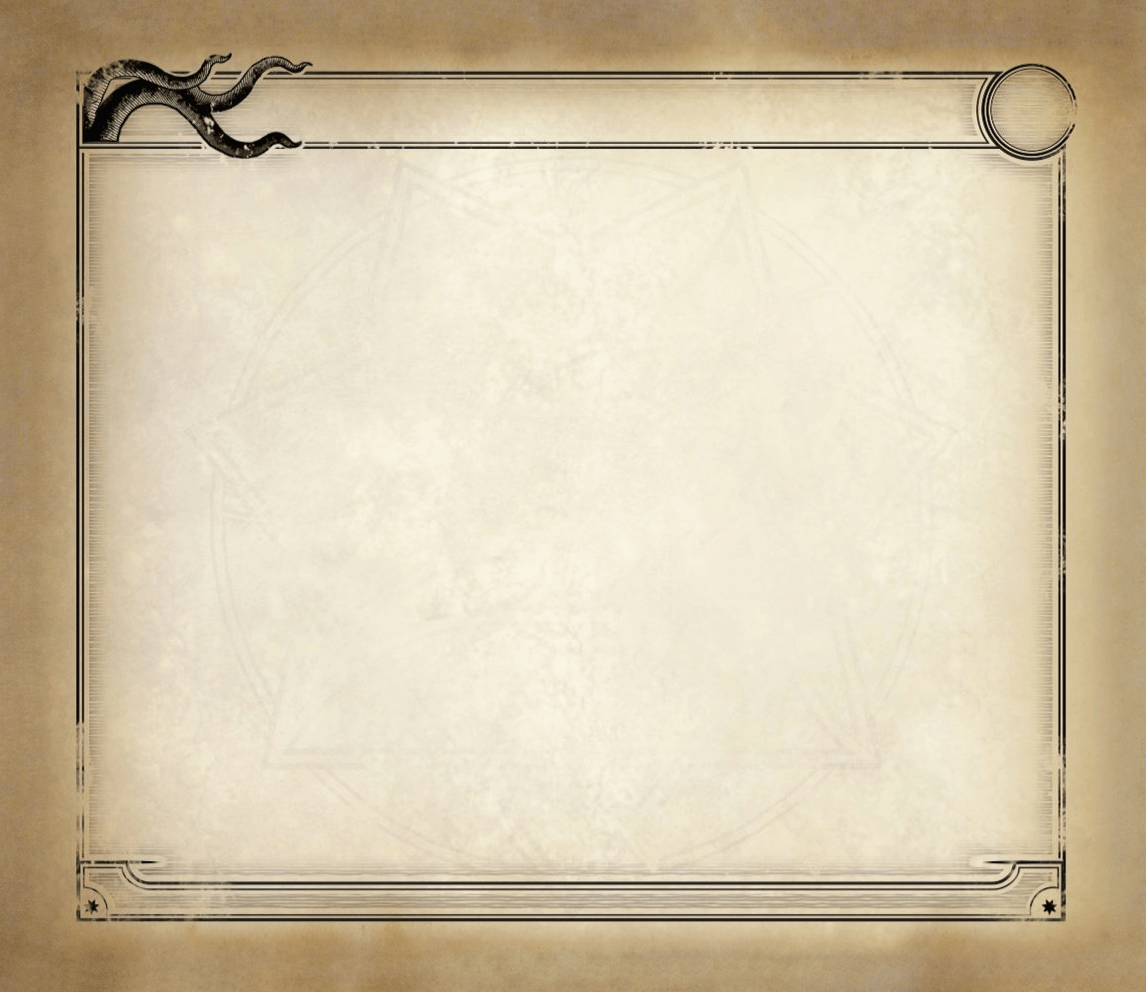
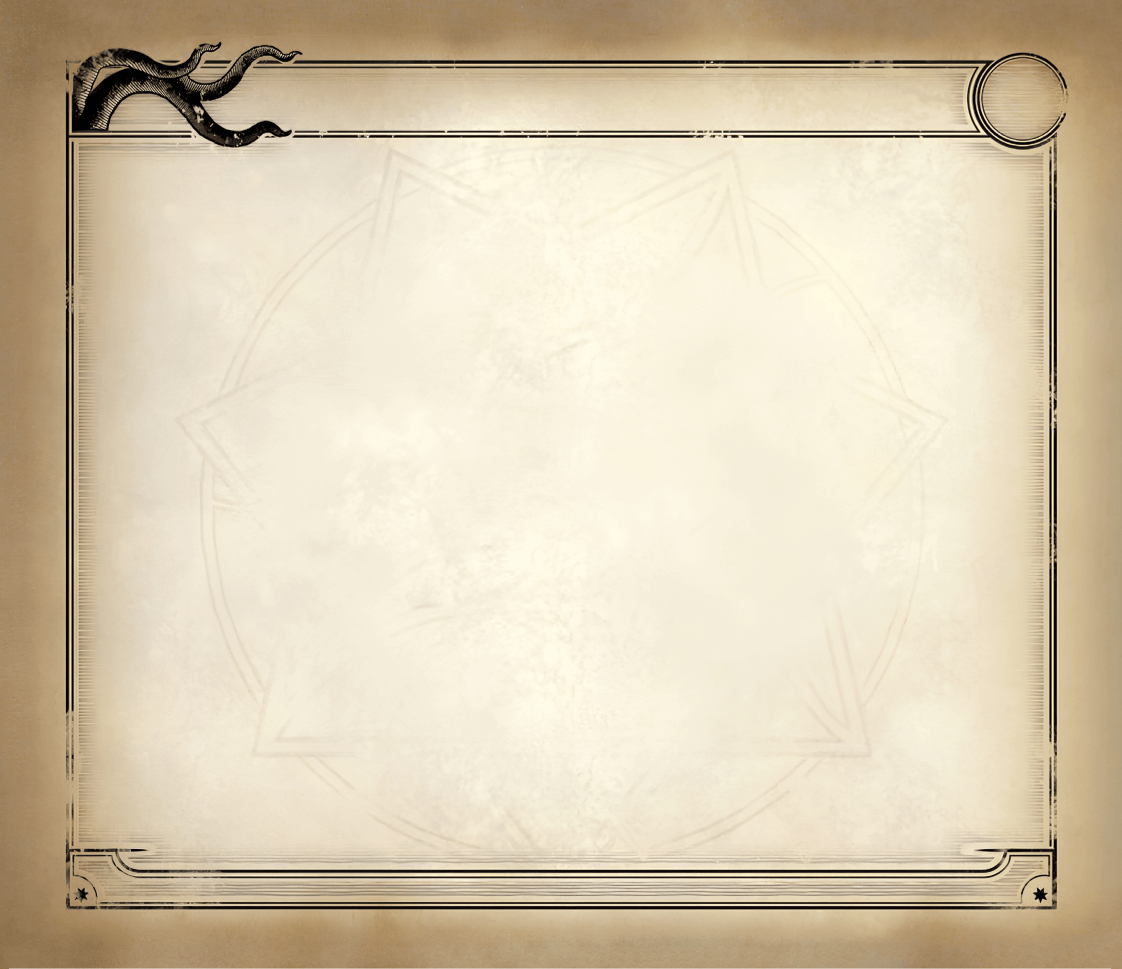
feat: hq loayout

Changed region(s): [[0.0312, 0.031, 0.967, 0.9598], [0.0312, 0.9907, 0.967, 1.0]]

diff --git a/src/components/dividers/classic/ClassicDivider/styles/horizontal.module.scss b/src/components/dividers/classic/ClassicDivider/styles/horizontal.module.scss
@@ -1,3 +1,5 @@
+@use "@/app/sass/mixins.scss" as mixins;
+
 .horizontal {
 
   .title {
@@ -45,6 +47,13 @@
 
 .classic-horizontal-hq {
   .icon_small {
-    right: 5.5mm;
+    top: 4.4mm;
+    right: 4.2mm;
+  }
+  .title {
+    top: 5.2mm;
+  }
+  .textStroke {
+    @include mixins.textStroke(rgba(208, 192, 165, 0.7));
   }
 }

diff --git a/src/shared/data/layouts/classic.ts b/src/shared/data/layouts/classic.ts
@@ -24,12 +24,12 @@ export const horizontalHQ = {
   width: 89,
   height: 76,
   bleed: {
-    width: 97,
-    height: 84,
-    top: 3.2,
-    left: 4,
-    right: 4.1,
-    bottom: 4.6,
+    width: 95,
+    height: 82,
+    top: 3,
+    left: 3,
+    right: 3,
+    bottom: 3,
   },
 };
 
